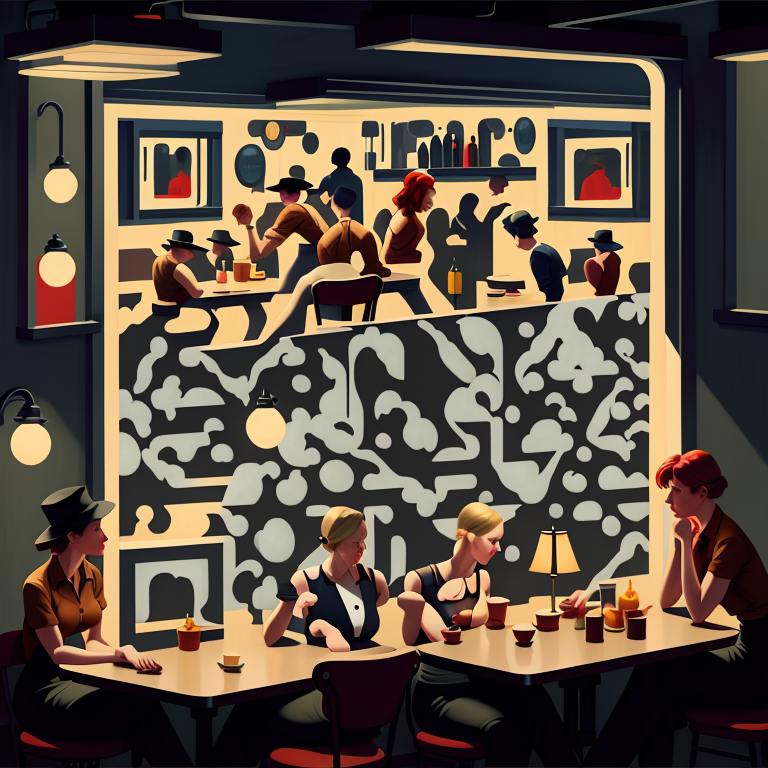
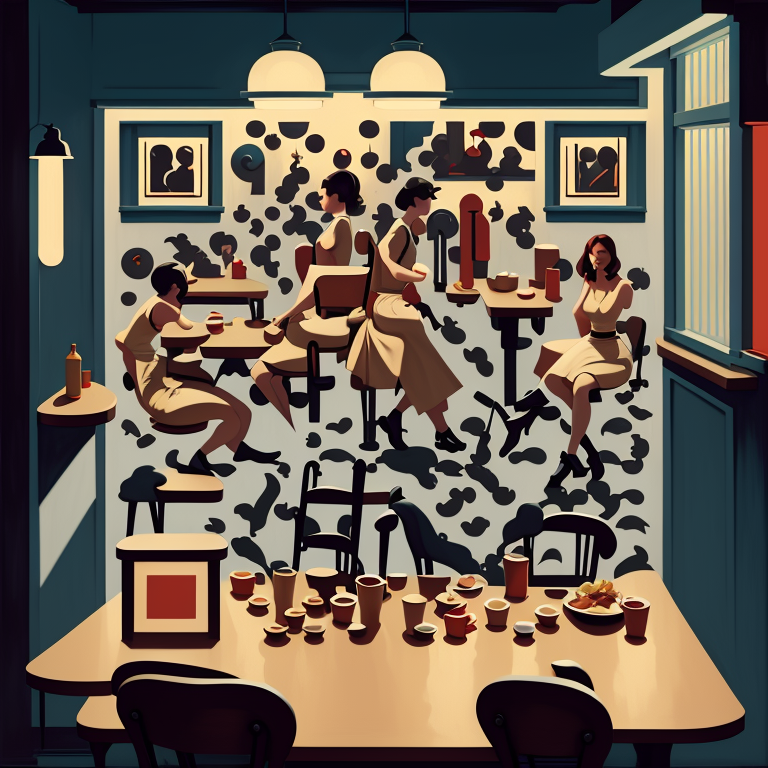
Exclude the 'Quick & Special' category from the gallery
That category holds the technical recipes (Quick iterate, Print-ready,
Branded logo heavy). Their prompts are generic placeholders ("a
beautiful landscape") rather than subject-specific descriptions, so the
diffusion can land on anything — including content not appropriate for
a public gallery.

build_gallery.py now ships a DEFAULT_EXCLUDE_CATEGORIES set containing
"⚡ Quick & Special" and skips entries from those categories on every
run. Override with --include-all-categories or add more exclusions
with repeatable --exclude-category SUBSTRING.

Removed gallery/quick-iterate.png and gallery/print-ready.png.
Re-ran the builder: 56 entries (was 58) across 15 categories.

diff --git a/scripts/build_gallery.py b/scripts/build_gallery.py
@@ -32,6 +32,14 @@ from qrart.presets import PRESETS, PRESETS_BY_SLUG  # noqa: E402
 OUTPUT_DIR = ROOT / "outputs"
 DB_PATH = ROOT / "qrart.db"
 
+# Categories whose presets are technical recipes (Fast mode, print-ready,
+# branded-logo) rather than aesthetic ones. The prompts are generic
+# placeholders ("a beautiful landscape") that can land on anything,
+# including content not appropriate for a public gallery. Skip by default.
+DEFAULT_EXCLUDE_CATEGORIES = {
+    "⚡ Quick & Special",
+}
+
 
 # ── DB ────────────────────────────────────────────────────────────────────────
 def url_to_fs(url_path: str) -> Path:
@@ -207,7 +215,18 @@ def main() -> int:
                     help="don't copy or write — just print what would happen")
     ap.add_argument("--db", default=str(DB_PATH),
                     help=f"path to qrart.db (default {DB_PATH})")
+    ap.add_argument("--exclude-category", action="append", default=[],
+                    help="exclude an entire category by substring match "
+                    "(repeatable). Default skips: " + ", ".join(repr(c) for c in DEFAULT_EXCLUDE_CATEGORIES))
+    ap.add_argument("--include-all-categories", action="store_true",
+                    help="override the default category exclusion list")
     args = ap.parse_args()
+
+    # Build the effective exclusion set.
+    exclude: set[str] = set()
+    if not args.include_all_categories:
+        exclude |= DEFAULT_EXCLUDE_CATEGORIES
+    exclude |= set(args.exclude_category)
 
     db_path = Path(args.db)
     if not db_path.exists():
@@ -271,13 +290,22 @@ def main() -> int:
 
     # Group by category (preset.category for matched, fallback bucket for not).
     groups: dict[str, list[tuple[str | None, dict]]] = {}
+    excluded_count = 0
     for slug, row in entries:
         if slug:
             preset = PRESETS_BY_SLUG.get(slug)
             cat = preset.category if preset else "📦 Other"
         else:
             cat = "📦 Uncategorized — custom runs"
+        # Drop excluded categories. Substring match so partial names work
+        # ("Quick" filters out "⚡ Quick & Special").
+        if any(ex.lower() in cat.lower() for ex in exclude):
+            excluded_count += 1
+            continue
         groups.setdefault(cat, []).append((slug, row))
+    if exclude:
+        print(f"  excluded {excluded_count} entries from filtered categories: "
+              f"{', '.join(repr(e) for e in sorted(exclude))}")
 
     # Maintain preset order within each category, then descending by score.
     preset_order = {p.slug: i for i, p in enumerate(PRESETS)}

diff --git a/GALLERY.md b/GALLERY.md
@@ -3,7 +3,7 @@
 Scannable QR art outputs that decode to `https://github.com/briankwest/qrart`.
 Every image below is a real QR code — point your phone at it.
 
-_Built 2026-05-29T15:13:54+00:00 · 58 entries · 16 categories · min scan score 0.9_
+_Built 2026-05-29T15:16:29+00:00 · 56 entries · 15 categories · min scan score 0.9_
 
 Generated with [QR Art Studio](https://github.com/briankwest/qrcode) — a local Stable Diffusion 1.5 + QR Monster ControlNet generator with 200 one-click presets, multi-scanner verification, and an automated calibration tool.
 
@@ -42,26 +42,6 @@ Generated with [QR Art Studio](https://github.com/briankwest/qrcode) — a local
       <br><b>Rothko (color field)</b>
       <br><sub>fields of orange and red interpreted in the style of Mark Rothko, soft-edged stacked rectangular color fields, luminous color, contemplative…</sub>
       <br><sub>★ 1.00 · seed 7592986 · scale 1.75 · dreamshaper</sub>
-    </td>
-    <td></td>
-  </tr>
-</table>
-
-## ⚡ Quick & Special
-
-<table>
-  <tr>
-    <td align="center" width="33%" valign="top">
-      <a href="gallery/quick-iterate.png"><img src="gallery/quick-iterate.png" width="240" alt="Quick iterate (Fast mode)" /></a>
-      <br><b>Quick iterate (Fast mode)</b>
-      <br><sub>a beautiful landscape, hyperdetailed photography, cinematic lighting</sub>
-      <br><sub>★ 1.00 · seed 389517107 · scale 1.08 · photoreal</sub>
-    </td>
-    <td align="center" width="33%" valign="top">
-      <a href="gallery/print-ready.png"><img src="gallery/print-ready.png" width="240" alt="Print-ready hi-res" /></a>
-      <br><b>Print-ready hi-res</b>
-      <br><sub>a stunning landscape, hyperdetailed photography, cinematic lighting, sharp focus, magazine quality</sub>
-      <br><sub>★ 0.97 · seed 1428363095 · scale 1.25 · photoreal</sub>
     </td>
     <td></td>
   </tr>
@@ -182,6 +162,46 @@ Generated with [QR Art Studio](https://github.com/briankwest/qrcode) — a local
   </tr>
 </table>
 
+## 🖋️ Stylized & Illustration
+
+<table>
+  <tr>
+    <td align="center" width="33%" valign="top">
+      <a href="gallery/mucha.png"><img src="gallery/mucha.png" width="240" alt="Mucha (Art Nouveau)" /></a>
+      <br><b>Mucha (Art Nouveau)</b>
+      <br><sub>an Art Nouveau goddess in the style of Alphonse Mucha, Art Nouveau ornate flowing borders, sinuous decorative lines, elegant figure surround…</sub>
+      <br><sub>★ 0.99 · seed 770203802 · scale 1.56 · dreamshaper</sub>
+    </td>
+    <td align="center" width="33%" valign="top">
+      <a href="gallery/ghibli.png"><img src="gallery/ghibli.png" width="240" alt="Miyazaki / Ghibli" /></a>
+      <br><b>Miyazaki / Ghibli</b>
+      <br><sub>a flying castle in clouds, Studio Ghibli anime aesthetic in the style of Hayao Miyazaki, soft watercolor and ink illustration, lush nature w…</sub>
+      <br><sub>★ 0.99 · seed 287053807 · scale 1.56 · dreamshaper</sub>
+    </td>
+    <td align="center" width="33%" valign="top">
+      <a href="gallery/hopper.png"><img src="gallery/hopper.png" width="240" alt="Edward Hopper" /></a>
+      <br><b>Edward Hopper</b>
+      <br><sub>a late-night diner with single patron in the style of Edward Hopper, American realism painting, melancholic atmosphere, dramatic raking sunl…</sub>
+      <br><sub>★ 0.99 · seed 138996726 · scale 1.56 · dreamshaper</sub>
+    </td>
+  </tr>
+  <tr>
+    <td align="center" width="33%" valign="top">
+      <a href="gallery/frazetta.png"><img src="gallery/frazetta.png" width="240" alt="Frazetta (heroic fantasy)" /></a>
+      <br><b>Frazetta (heroic fantasy)</b>
+      <br><sub>a barbarian warrior with sword in the style of Frank Frazetta, heroic fantasy oil painting, dramatic muscular figures in dynamic action, omi…</sub>
+      <br><sub>★ 0.99 · seed 285470831 · scale 1.56 · dreamshaper</sub>
+    </td>
+    <td align="center" width="33%" valign="top">
+      <a href="gallery/beksinski.png"><img src="gallery/beksinski.png" width="240" alt="Beksiński" /></a>
+      <br><b>Beksiński</b>
+      <br><sub>towering rusted cathedral ruins in the style of Zdzisław Beksiński, dystopian surreal landscape, towering rusted twisted architecture, foreb…</sub>
+      <br><sub>★ 0.99 · seed 750468486 · scale 1.56 · dreamshaper</sub>
+    </td>
+    <td></td>
+  </tr>
+</table>
+
 ## 🌻 Impressionist
 
 <table>
@@ -224,46 +244,6 @@ Generated with [QR Art Studio](https://github.com/briankwest/qrcode) — a local
       <br><sub>a Moulin Rouge cabaret dancer in the style of Henri de Toulouse-Lautrec, bold poster art composition, flat planes of color, expressive line…</sub>
       <br><sub>★ 0.99 · seed 1921299773 · scale 1.56 · dreamshaper</sub>
     </td>
-  </tr>
-</table>
-
-## 🖋️ Stylized & Illustration
-
-<table>
-  <tr>
-    <td align="center" width="33%" valign="top">
-      <a href="gallery/mucha.png"><img src="gallery/mucha.png" width="240" alt="Mucha (Art Nouveau)" /></a>
-      <br><b>Mucha (Art Nouveau)</b>
-      <br><sub>an Art Nouveau goddess in the style of Alphonse Mucha, Art Nouveau ornate flowing borders, sinuous decorative lines, elegant figure surround…</sub>
-      <br><sub>★ 0.99 · seed 770203802 · scale 1.56 · dreamshaper</sub>
-    </td>
-    <td align="center" width="33%" valign="top">
-      <a href="gallery/ghibli.png"><img src="gallery/ghibli.png" width="240" alt="Miyazaki / Ghibli" /></a>
-      <br><b>Miyazaki / Ghibli</b>
-      <br><sub>a flying castle in clouds, Studio Ghibli anime aesthetic in the style of Hayao Miyazaki, soft watercolor and ink illustration, lush nature w…</sub>
-      <br><sub>★ 0.99 · seed 287053807 · scale 1.56 · dreamshaper</sub>
-    </td>
-    <td align="center" width="33%" valign="top">
-      <a href="gallery/hopper.png"><img src="gallery/hopper.png" width="240" alt="Edward Hopper" /></a>
-      <br><b>Edward Hopper</b>
-      <br><sub>a late-night diner with single patron in the style of Edward Hopper, American realism painting, melancholic atmosphere, dramatic raking sunl…</sub>
-      <br><sub>★ 0.99 · seed 299798722 · scale 1.40 · dreamshaper</sub>
-    </td>
-  </tr>
-  <tr>
-    <td align="center" width="33%" valign="top">
-      <a href="gallery/frazetta.png"><img src="gallery/frazetta.png" width="240" alt="Frazetta (heroic fantasy)" /></a>
-      <br><b>Frazetta (heroic fantasy)</b>
-      <br><sub>a barbarian warrior with sword in the style of Frank Frazetta, heroic fantasy oil painting, dramatic muscular figures in dynamic action, omi…</sub>
-      <br><sub>★ 0.98 · seed 162172174 · scale 1.30 · dreamshaper</sub>
-    </td>
-    <td align="center" width="33%" valign="top">
-      <a href="gallery/beksinski.png"><img src="gallery/beksinski.png" width="240" alt="Beksiński" /></a>
-      <br><b>Beksiński</b>
-      <br><sub>towering rusted cathedral ruins in the style of Zdzisław Beksiński, dystopian surreal landscape, towering rusted twisted architecture, foreb…</sub>
-      <br><sub>★ 0.98 · seed 2076258312 · scale 1.25 · dreamshaper</sub>
-    </td>
-    <td></td>
   </tr>
 </table>
 